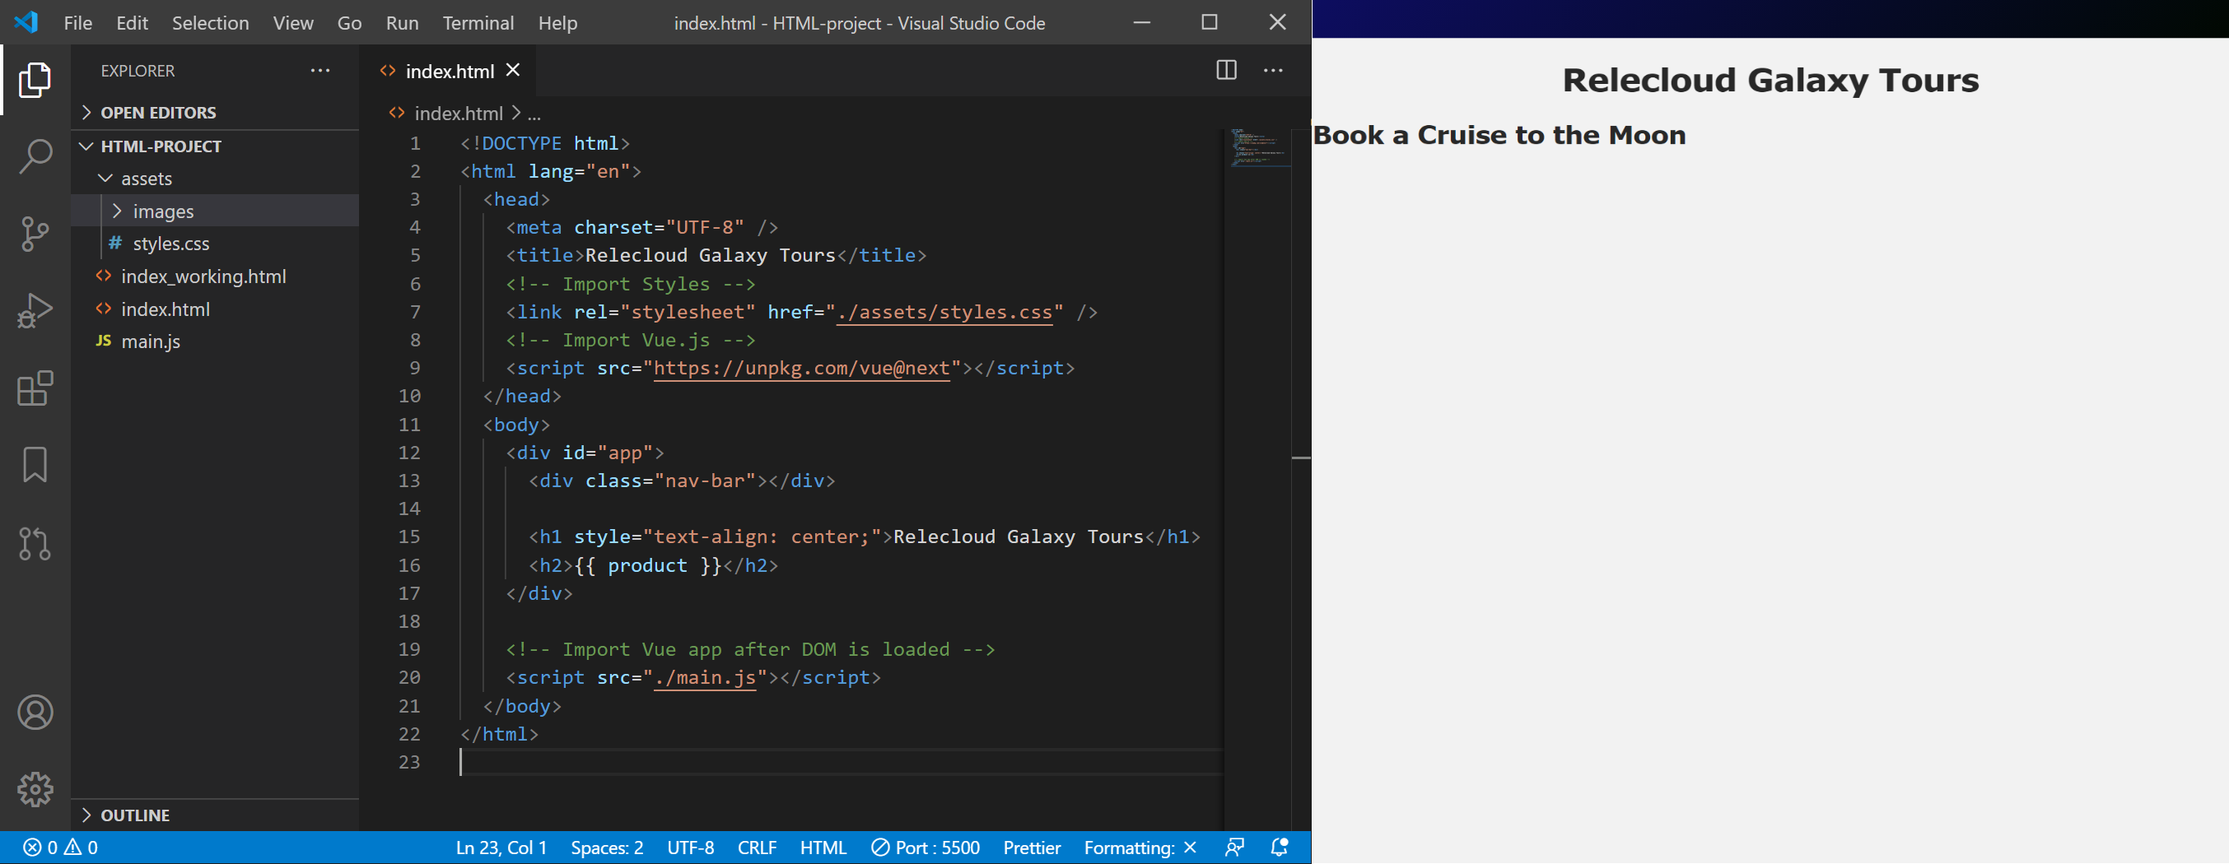
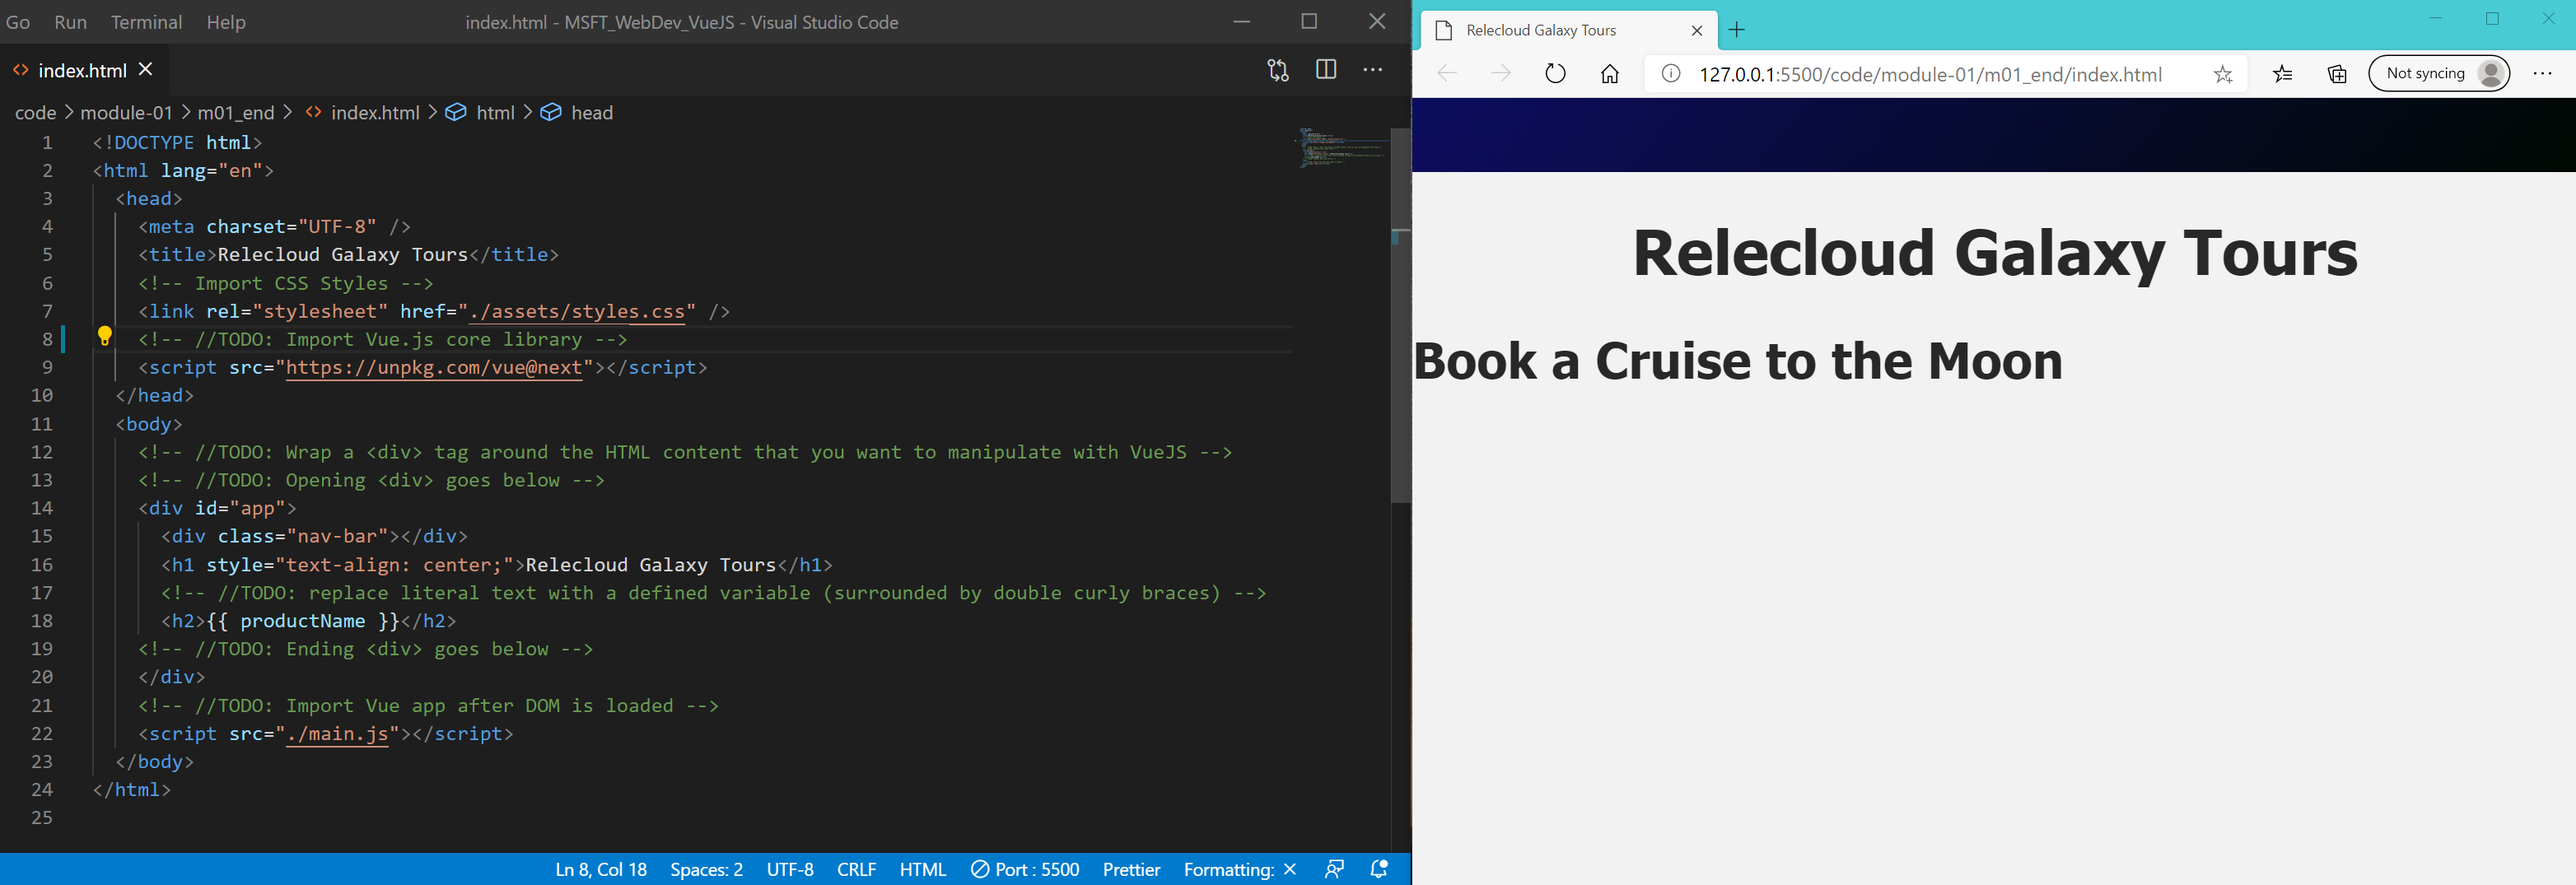
minor edits

diff --git a/m01-create-data-driven-websites-with-vue.js/includes/4-create-a-simple-Vue-app.md b/m01-create-data-driven-websites-with-vue.js/includes/4-create-a-simple-Vue-app.md
@@ -2,7 +2,7 @@ In this section you will create a starter Vue application using an HTML file tha
 
 ## Step 1: Link to the Vue core library in your HTML file
 
-To install Vue by linking to the Vue core library, paste the following script tag into the starter HTML file.
+To install Vue.js by linking to the Vue core library, paste the following script tag into the starter HTML file.
 
 ```html
 <!-- //TODO: link to the VueJS core library within the <head> tag of your HTML file -->
@@ -34,19 +34,15 @@ Your **index.html** page should now look like the example shown below.
 
 Now we can start writing Vue script inside our HTML file if we want to, but it is much cleaner and easier to update our application if we place the Vue data into a separate JavaScript file. Let's create a **main.js** file for this purpose.
 
-On the first line we instantiate (create an instance of) our Vue application using a `constant` named `app`. `//TODO: Create the VueJS app using a constant named app. Save the file as main.js.`
-
-Also define a data item **product_name** with a value of **Book a Cruise to the Moon**. `//TODO: in the return function of the data() item define a property as product_name and assign it a text value.`
-
-Your main.js file should now contain the code snippet below.
+On the first line instantiate (create an instance of) your Vue application using a `constant` named `app`. Also define a data item **productName** with a value of **Book a Cruise to the Moon**. Your **main.js** file should now contain the code snippet below.
 
 ```javascript
 //TODO: Create the VueJS app using a constant named app
 const app = Vue.createApp({
     data() {
         return {
-            //TODO: Define a data property item as product_name with a text value
-            product_name: 'Book a Cruise to the Moon'
+            //TODO: Define a data property item as productName with a text value
+            productName: 'Book a Cruise to the Moon'
         }
     },
 })
@@ -61,7 +57,7 @@ The `createApp()` function is available to us because we imported the Vue.js lib
 
 In addition to importing the Vue app that is defined in our JavaScript file, we need to mount our Vue application into the DOM so that Vue can track the current state of different objects in our HTML page. To accomplish this, we add another construct at the bottom of the main.js file to mount the Vue app into the DOM.
 
-Inside the mount method we have an argument `#app`, which is a DOM selector used to plug the app into a piece of our DOM. `//TODO: Mount the application by adding another construct below the app construct in your main.js file`.
+Inside the mount method we have an argument `#app`, which is a DOM selector used to plug the app into a piece of our DOM.
 
 ```javascript
 //TODO: add another construct under the app construct to mount the Vue app into the DOM
@@ -70,10 +66,10 @@ const mountedApp = app.mount('#app')
 
 ## Step Four: Link to the Vue application at the bottom of your HTML file
 
-Next we link to our Vue application `//TODO: by adding the following code snippet just above the ending </body> tag in our index.html file`.
+Next we link to our Vue application in the HTML file. Perform this task as shown in the code snippet below.
 
 ```html
-<!-- Import Vue app after DOM is loaded -->
+<!-- //TODO: Import Vue app after DOM is loaded -->
     <script src="./main.js"></script>
   </body>
 </html>
@@ -84,21 +80,37 @@ Next we link to our Vue application `//TODO: by adding the following code snippe
 
 ## Step Five: Identify the Vue app within the DOM
 
-To identify the Vue app within the DOM we wrap a `<div>` tag around the parts of our HTML code where we want to plug in pieces of data being tracked by our Vue application. `//TODO: Wrap a <div> tag around the parts of your HTML that you want to manipulate with your Vue application.`
+To identify the Vue app within the DOM we wrap a `<div>` tag around the parts of our HTML code where we want to plug in pieces of data being tracked by our Vue application.
+
+Then we need to tell our HTML page where to display the piece of `data` we have defined for our `product`. So, replace the literal text in your `<h2>` tag with a VueJS variable name placed inside double curly braces `{{ variable }}`.
+
+After accomplishing these tasks, your **index.html** should be structured as shown below.
 
 ```html
-<body>
-<!-- Wrap a <div> tag around the HTML content that you want to manipulate with VueJS -->
-<div id="app">
-  <h2>Product name goes here</h2>
-</div>
-```
-
-Now we need to tell our HTML page where to display the piece of `data` we have defined for our `product`. `//TODO: So, replace the literal text in your <h2> tag with a VueJS variable name placed inside double curly braces {{ variable }}`, as shown in the code snippet below.
-
-```html
-<!-- Replace literal text with a defined variable (surrounded by double curly braces) -->
-<h1>{{ product_name }}</h1>
+<!DOCTYPE html>
+<html lang="en">
+  <head>
+    <meta charset="UTF-8" />
+    <title>Relecloud Galaxy Tours</title>
+    <!-- Import CSS Styles -->
+    <link rel="stylesheet" href="./assets/styles.css" />
+    <!-- Import Vue.js core library -->
+    <script src="https://unpkg.com/vue@next"></script>
+  </head>
+  <body>
+    <!-- //TODO: Wrap a <div> tag around the HTML content that you want to manipulate with VueJS -->
+    <!-- //TODO: Opening <div> goes below -->
+    <div id="app">
+      <div class="nav-bar"></div>
+      <h1 style="text-align: center;">Relecloud Galaxy Tours</h1>
+      <!-- //TODO: replace literal text with a defined variable (surrounded by double curly braces) -->
+      <h2>{{ productName }}</h2>
+    <!-- //TODO: Ending <div> goes below -->
+    </div>
+    <!-- //TODO: Import Vue app after DOM is loaded -->
+    <script src="./main.js"></script>
+  </body>
+</html>
 ```
 
 > [!IMPORTANT]

diff --git a/m01-create-data-driven-websites-with-vue.js/includes/5-module-summary.md b/m01-create-data-driven-websites-with-vue.js/includes/5-module-summary.md
@@ -6,8 +6,6 @@ In this module we introduced you to the Vue.js JavaScript framework. We demonstr
 
 Now it's your turn! Armed with the information presented in this module, you should now be able to perform the following tasks on your own.
 
-- Create an **index.html** file and a **main.js** file to instantiate a VueJS application. You can use the asset files that can be downloaded for this course.
-- Create a data object that lists the name of a product: **Book a Cruise to the Moon**.
 - Add a description to the data object: **Cruise to the moon in our luxurious shuttle. Watch the astronauts working outside the International Space Station**.
 - Display the description within an `<h3>` tag placed under the `<h2>` product name tag.
 - View the application using VSCode Live Server or display it in a web browser.
